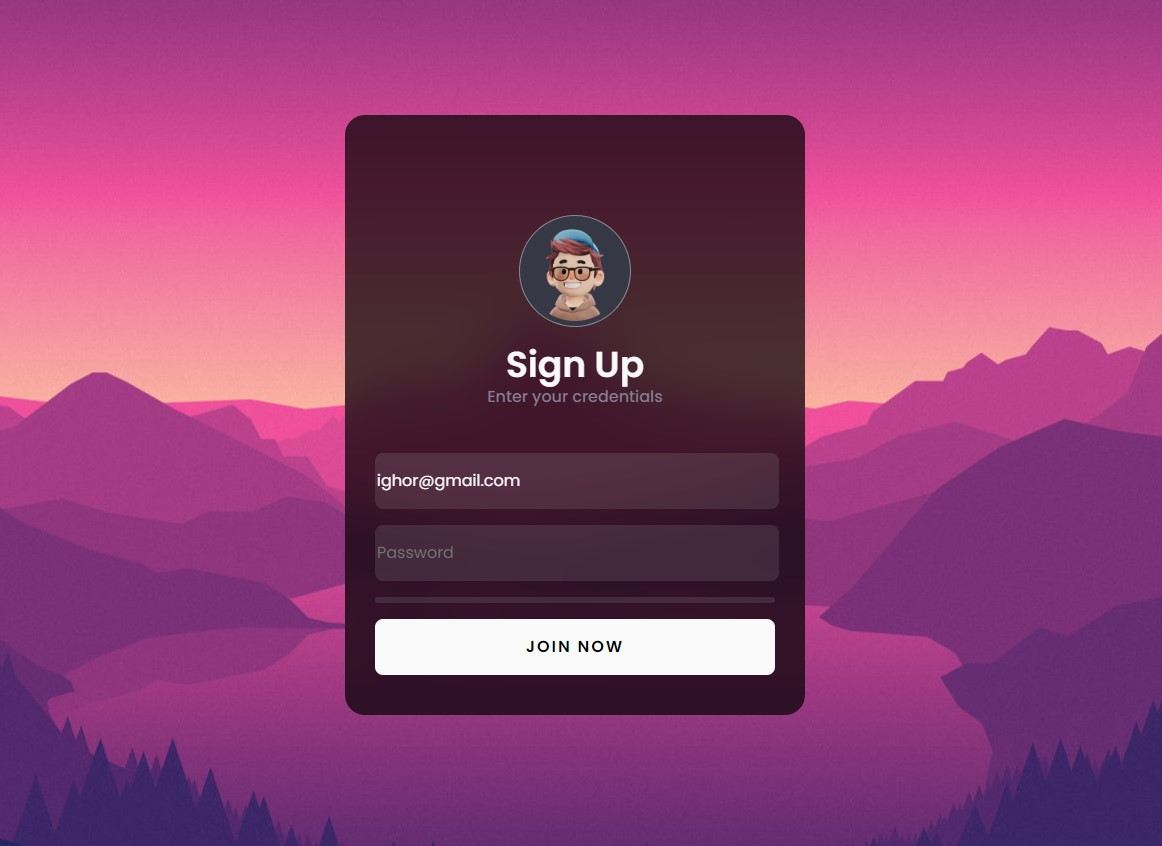
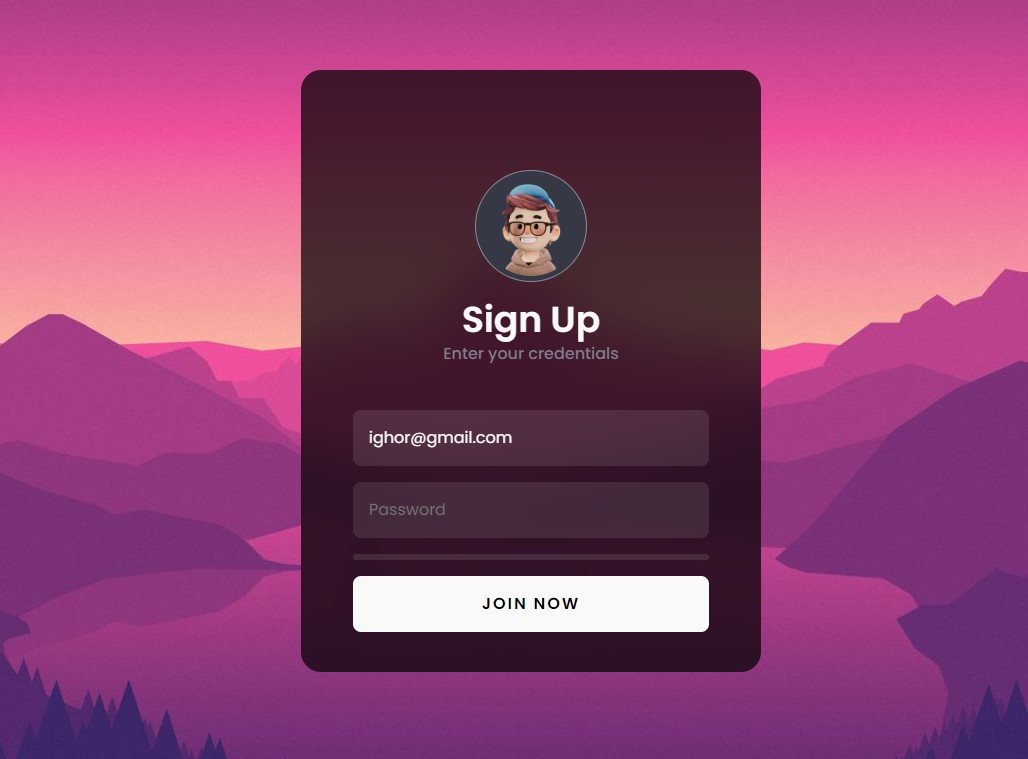
bugs corrigidos

diff --git a/assets/styles/components/Main.scss b/assets/styles/components/Main.scss
@@ -16,10 +16,11 @@
     background: rgba(0, 0, 0, 0.7);
     backdrop-filter: blur(26px);
     text-align: center;
-    // display: flex;
-    // align-items: center;
-    // justify-content: center;
-    // flex-direction: column;
+  }
+
+  &-content {
+    width: 300px;
+    margin: 0 auto;
   }
 
   &-image {
@@ -30,19 +31,17 @@
     padding: 5px;
     border: 1px solid rgba(255, 255, 255, 0.4);
     margin: 0 auto;
-    // margin-top: 50px;
     margin-bottom: 20px;
     
     img {
       height: 100px;
       border-radius: 50%;
-      // border: 2px solid #fff;
     }
   }
   
   
   h2 {
-    // margin: 0 auto;
+
     font-size: 36px;
     font-weight: 600;
     margin: 0 0 8px;
@@ -56,19 +55,10 @@
     font-size: 1rem;
   } 
 
-  // &-form {
-  //   padding: 10px;
-  // }
-
-  .username {
-    position: relative;
-  }
-
   button {
     background: transparent;
     border: 0;
     cursor: pointer;
-    max-width: 100%;
   }
 
   .control {
@@ -100,7 +90,7 @@
     color: #000000;
     border: 0;
     font-family: inherit;
-    font-size: 1rem;
+    font-size: 16px;
     font-weight: 600;
     text-align: center;
     letter-spacing: 2px;
@@ -108,29 +98,29 @@
   }
 
   
-  // .spinner {
-  //   position: absolute;
-  //   top: 50%;
-  //   right: 16px;
-  //   translate: 0 -50%;
-  //   width: 24px;
-  //   height: 24px;
-  //   border-radius: 50%;
-  //   border: 3px solid #ccc9e1;
-  //   border-top-color: #8f44fd;
-  //   opacity: 0;
-  //   animation: spin 1s infinite linear;
+  .spinner {
+    position: absolute;
+    top: 50%;
+    right: 16px;
+    translate: 0 -50%;
+    width: 24px;
+    height: 24px;
+    border-radius: 50%;
+    border: 3px solid #ccc9e1;
+    border-top-color: #8f44fd;
+    opacity: 0;
+    animation: spin 1s infinite linear;
 
-  //   .visible {
-  //     opacity: 1;
-  //   }
-  // }
+    .visible {
+      opacity: 1;
+    }
+  }
 
-  // .indicator {
-  //   display: flex;
-  //   align-items: center;
-  //   justify-content: space-between;
-  // }
+  .indicator {
+    display: flex;
+    align-items: center;
+    justify-content: space-between;
+  }
 
   @keyframes spin {
     100% {

diff --git a/dist/index.css b/dist/index.css
@@ -160,6 +160,10 @@ table {
   backdrop-filter: blur(26px);
   text-align: center;
 }
+.Main-content {
+  width: 300px;
+  margin: 0 auto;
+}
 .Main-image {
   width: auto;
   display: table;
@@ -186,14 +190,10 @@ table {
   font-weight: 500;
   font-size: 1rem;
 }
-.Main .username {
-  position: relative;
-}
 .Main button {
   background: transparent;
   border: 0;
   cursor: pointer;
-  max-width: 100%;
 }
 .Main .control {
   border: none;
@@ -221,11 +221,32 @@ table {
   color: #000000;
   border: 0;
   font-family: inherit;
-  font-size: 1rem;
+  font-size: 16px;
   font-weight: 600;
   text-align: center;
   letter-spacing: 2px;
   transition: all 0.375s;
+}
+.Main .spinner {
+  position: absolute;
+  top: 50%;
+  right: 16px;
+  translate: 0 -50%;
+  width: 24px;
+  height: 24px;
+  border-radius: 50%;
+  border: 3px solid #ccc9e1;
+  border-top-color: #8f44fd;
+  opacity: 0;
+  animation: spin 1s infinite linear;
+}
+.Main .spinner .visible {
+  opacity: 1;
+}
+.Main .indicator {
+  display: flex;
+  align-items: center;
+  justify-content: space-between;
 }
 @keyframes spin {
   100% {

diff --git a/index.html b/index.html
@@ -15,11 +15,15 @@
 <body>
   <main class="Main">
     <div class="Main-card">
-      <div class="Main-image">
-        <img src="./assets/img/peeps-avatar-alpha.png" alt="" />
+      <div class="Main-content">
+
+        <div class="Main-image">
+          <img src="./assets/img/peeps-avatar-alpha.png" alt="" />
+        </div>
+        <h2>Sign Up</h2>
+        <h3>Enter your credentials</h3>
+
       </div>
-      <h2>Sign Up</h2>
-      <h3>Enter your credentials</h3>
       <form class="Main-form">
         <input autocomplete="off" spellcheck="false" class="control" type="email" placeholder="Email"
           value="ighor@gmail.com" />

diff --git a/dist/index.js b/dist/index.js
@@ -283,7 +283,7 @@ var parent = module.bundle.parent;
 if ((!parent || !parent.isParcelRequire) && typeof WebSocket !== 'undefined') {
   var hostname = "" || location.hostname;
   var protocol = location.protocol === 'https:' ? 'wss' : 'ws';
-  var ws = new WebSocket(protocol + '://' + hostname + ':' + "57551" + '/');
+  var ws = new WebSocket(protocol + '://' + hostname + ':' + "58758" + '/');
 
   ws.onmessage = function (event) {
     checkedAssets = {};
